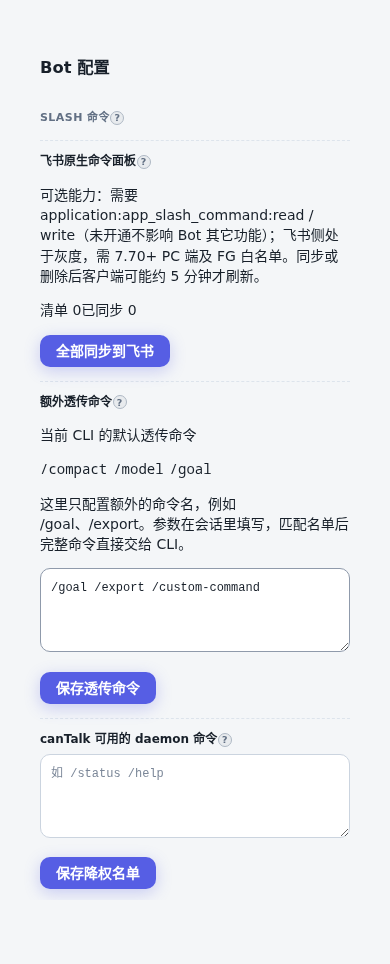
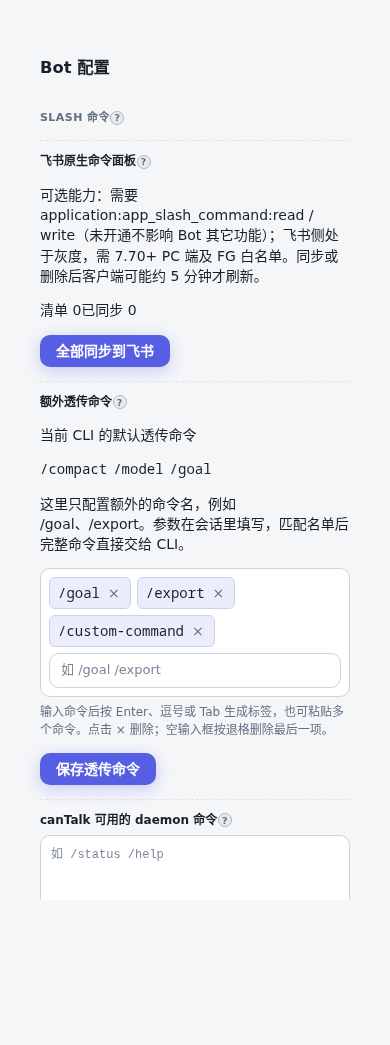
feat(commands): 使用标签输入配置 CLI 透传命令

Changed region(s): [[0.0923, 0.0311, 0.8923, 0.8402], [0.0923, 0.8714, 0.4, 0.9336], [0.7077, 0.4979, 0.8923, 0.5602]]

diff --git a/src/dashboard/web/bot-defaults-page.tsx b/src/dashboard/web/bot-defaults-page.tsx
@@ -1,4 +1,5 @@
 import type { OncallPresetOptions } from '../../services/oncall-preset-options.js';
+import { normalizePassthroughCommand, parseCustomPassthroughInput } from '../../core/passthrough-commands.js';
 import type { OncallGroupBusinessTarget } from '../../services/oncall-group-client.js';
 import type { OncallGroupPolicy } from '../../services/oncall-group-policy.js';
 import { SessionGroupNamingRow } from './session-group-naming-row.js';
@@ -9390,12 +9391,18 @@ export function NativeSlashCommandRegistration(props: { bot: BotDefaultsRow }) {
 export function SlashCommandPermissionsSection(props: { bot: BotDefaultsRow; patchBot: PatchBot }) {
   const tr = useT();
   const [passthrough, setPassthrough] = useState(typeof props.bot.customPassthroughCommands === 'string' ? props.bot.customPassthroughCommands : '');
+  const [commandDraft, setCommandDraft] = useState('');
+  const [commandError, setCommandError] = useState('');
+  const commandHelpId = useId();
+  const commandTags = parseCustomPassthroughInput(passthrough);
   const [canTalk, setCanTalk] = useState(typeof props.bot.canTalkDaemonCommands === 'string' ? props.bot.canTalkDaemonCommands : '');
   const [status, setStatus] = useState<StatusMessage>(null);
   const [busy, setBusy] = useState<string | null>(null);
 
   useEffect(() => {
     setPassthrough(typeof props.bot.customPassthroughCommands === 'string' ? props.bot.customPassthroughCommands : '');
+    setCommandDraft('');
+    setCommandError('');
   }, [props.bot.customPassthroughCommands]);
   // 分开两个 effect：只让「被保存的那个字段」的 prop 变化重置对应输入框，否则保存
   // 一个字段触发 patchBot 重渲染会连带把另一个字段的未保存草稿一并清空。
@@ -9403,9 +9410,26 @@ export function SlashCommandPermissionsSection(props: { bot: BotDefaultsRow; pat
     setCanTalk(typeof props.bot.canTalkDaemonCommands === 'string' ? props.bot.canTalkDaemonCommands : '');
   }, [props.bot.canTalkDaemonCommands]);
 
+  function commitCommandDraft(text = commandDraft): string | null {
+    if (!text.trim()) return passthrough;
+    const entries = text.trim().split(/[,;\r\n]+|\s+(?=\/)/).map(entry => entry.trim()).filter(Boolean);
+    const normalized = entries.map(entry => normalizePassthroughCommand(entry.startsWith('/') ? entry : `/${entry}`));
+    if (!entries.length || normalized.some(command => !command)) {
+      setCommandError(tr('botDefaults.commandTagInvalid'));
+      return null;
+    }
+    const next = [...new Set([...commandTags, ...normalized as string[]])].join(' ');
+    setPassthrough(next);
+    setCommandDraft('');
+    setCommandError('');
+    return next;
+  }
+
   async function savePassthrough(): Promise<void> {
+    const commands = commitCommandDraft();
+    if (commands === null) return;
     await saveBotField({
-      request: () => sendJson('PUT', `/api/bots/${encodeURIComponent(props.bot.larkAppId)}/custom-passthrough`, { customPassthroughCommands: passthrough }),
+      request: () => sendJson('PUT', `/api/bots/${encodeURIComponent(props.bot.larkAppId)}/custom-passthrough`, { customPassthroughCommands: commands }),
       setStatus,
       setBusy: on => setBusy(on ? 'passthrough' : null),
       saved: tr('botDefaults.cardPrefSaved'),
@@ -9446,14 +9470,43 @@ export function SlashCommandPermissionsSection(props: { bot: BotDefaultsRow; pat
           </div>
         ) : null}
         <p>{tr('botDefaults.customPassthroughInputHelp')}</p>
-        <textarea
-          data-input="customPassthroughCommands"
-          rows={2}
-          placeholder={tr('botDefaults.customPassthroughPlaceholder')}
-          value={passthrough}
-          disabled={busy === 'passthrough'}
-          onChange={event => setPassthrough(event.currentTarget.value)}
-        />
+        <div className={`bd-command-tags${busy === 'passthrough' ? ' is-disabled' : ''}`}>
+          {commandTags.map(command => (
+            <span className="bd-command-tag" key={command} data-command-tag={command}>
+              <code>{command}</code>
+              <button type="button" disabled={busy === 'passthrough'} data-remove-command={command}
+                aria-label={tr('botDefaults.commandTagRemove', { command })}
+                onClick={() => setPassthrough(commandTags.filter(value => value !== command).join(' '))}>×</button>
+            </span>
+          ))}
+          <input data-input="customPassthroughCommands" type="text" value={commandDraft}
+            aria-label={tr('botDefaults.customPassthrough')} aria-describedby={commandHelpId} aria-invalid={!!commandError}
+            placeholder={tr('botDefaults.customPassthroughPlaceholder')} disabled={busy === 'passthrough'}
+            onChange={event => { setCommandDraft(event.currentTarget.value); setCommandError(''); }}
+            onBlur={() => { if (busy !== 'passthrough') commitCommandDraft(); }}
+            onKeyDown={event => {
+              if (event.nativeEvent.isComposing) return;
+              if (event.key === 'Enter' || event.key === ',' || event.key === ';') {
+                event.preventDefault(); commitCommandDraft();
+              } else if (event.key === 'Tab' && commandDraft.trim()) {
+                commitCommandDraft();
+              } else if (event.key === 'Backspace' && !commandDraft && commandTags.length) {
+                event.preventDefault(); setPassthrough(commandTags.slice(0, -1).join(' '));
+              }
+            }}
+            onPaste={event => {
+              const text = event.clipboardData.getData('text');
+              if (/[,;\r\n]|\s+\//.test(text)) {
+                event.preventDefault();
+                const start = event.currentTarget.selectionStart ?? commandDraft.length;
+                const end = event.currentTarget.selectionEnd ?? start;
+                const next = commandDraft.slice(0, start) + text + commandDraft.slice(end);
+                if (commitCommandDraft(next) === null) setCommandDraft(next);
+              }
+            }} />
+        </div>
+        <p className="bd-section-note" id={commandHelpId}>{tr('botDefaults.commandTagHelp')}</p>
+        {commandError ? <p role="alert" className="bd-command-error">{commandError}</p> : null}
         <div className="actions">
           <button type="button" className="primary" data-action="save-custom-passthrough" disabled={busy === 'passthrough'} onClick={() => void savePassthrough()}>{tr('botDefaults.customPassthroughSave')}</button>
         </div>

diff --git a/test/dashboard-cli-command-settings.test.ts b/test/dashboard-cli-command-settings.test.ts
@@ -25,12 +25,92 @@ describe('Dashboard CLI command-name configuration', () => {
     const defaults = renderer.root.findByProps({ 'data-default-passthrough-commands': '' });
     expect(defaults.findAllByType('code').map(node => node.children.join(''))).toEqual(['/model', '/goal']);
     await act(async () => renderer.root.findByProps({ 'data-input': 'customPassthroughCommands' }).props.onChange({ currentTarget: { value: '/export /goal' } }));
+    await act(async () => renderer.root.findByProps({ 'data-input': 'customPassthroughCommands' }).props.onKeyDown({ key: 'Enter', nativeEvent: { isComposing: false }, preventDefault() {} }));
     await act(async () => { await renderer.root.findByProps({ 'data-action': 'save-custom-passthrough' }).props.onClick(); });
     expect(fetchMock).toHaveBeenCalledWith('/api/bots/app1/custom-passthrough', expect.objectContaining({
       method: 'PUT', body: JSON.stringify({ customPassthroughCommands: '/export /goal' }),
     }));
     expect(patchBot).toHaveBeenCalledWith('app1', { customPassthroughCommands: '/export /goal' });
-    expect(renderer.root.findByProps({ 'data-input': 'customPassthroughCommands' }).props.value).toBe('/export /goal');
+    expect(renderer.root.findAll(node => typeof node.props['data-command-tag'] === 'string').map(node => node.props['data-command-tag']))
+      .toEqual(['/export', '/goal']);
+    expect(renderer.root.findByProps({ 'data-input': 'customPassthroughCommands' }).props.value).toBe('');
     await act(async () => renderer.unmount());
+  });
+});
+
+async function tagEditor(initial = '') {
+  const fetchMock = vi.fn(async (_url: string, init?: RequestInit) => ({
+    ok: true, status: 200,
+    json: async () => init?.method === 'PUT'
+      ? { ok: true, ...JSON.parse(String(init.body)) }
+      : { ok: true, commands: [], summary: { total: 0, synced: 0, missing: 0, outdated: 0, remoteExtra: 0 } },
+  }));
+  vi.stubGlobal('fetch', fetchMock);
+  let renderer!: TestRenderer.ReactTestRenderer;
+  await act(async () => { renderer = TestRenderer.create(React.createElement(SlashCommandPermissionsSection, {
+    bot: { larkAppId: 'app1', cliId: 'traex', customPassthroughCommands: initial }, patchBot: vi.fn(),
+  })); });
+  const input = () => renderer.root.findByProps({ 'data-input': 'customPassthroughCommands' });
+  const tags = () => renderer.root.findAll(node => typeof node.props['data-command-tag'] === 'string').map(node => node.props['data-command-tag']);
+  const type = async (value: string) => { await act(async () => input().props.onChange({ currentTarget: { value } })); };
+  const key = async (value: string, composing = false) => { await act(async () => input().props.onKeyDown({ key: value, nativeEvent: { isComposing: composing }, preventDefault() {} })); };
+  const save = async () => { await act(async () => { await renderer.root.findByProps({ 'data-action': 'save-custom-passthrough' }).props.onClick(); }); };
+  const close = async () => { await act(async () => renderer.unmount()); };
+  return { renderer, input, tags, type, key, save, close, fetchMock };
+}
+
+describe('command tag input', () => {
+  it('commits individual commands, normalizes and deduplicates them', async () => {
+    const editor = await tagEditor();
+    await editor.type('GOAL'); await editor.key('Enter');
+    await editor.type('/export'); await editor.key(',');
+    await editor.type('/GOAL'); await editor.key('Tab');
+    expect(editor.tags()).toEqual(['/goal', '/export']);
+    expect(editor.input().props.value).toBe('');
+    await editor.close();
+  });
+  it('removes a tag using its button and the last tag using Backspace', async () => {
+    const editor = await tagEditor('/goal /export');
+    await act(async () => editor.renderer.root.findByProps({ 'data-remove-command': '/goal' }).props.onClick());
+    expect(editor.tags()).toEqual(['/export']);
+    await editor.key('Backspace');
+    expect(editor.tags()).toEqual([]);
+    await editor.save();
+    expect(editor.fetchMock).toHaveBeenLastCalledWith('/api/bots/app1/custom-passthrough', expect.objectContaining({ body: JSON.stringify({ customPassthroughCommands: '' }) }));
+    await editor.close();
+  });
+  it('pastes multiple commands while respecting the selected draft text', async () => {
+    const editor = await tagEditor('/goal');
+    await editor.type('/old');
+    await act(async () => editor.input().props.onPaste({
+      clipboardData: { getData: () => '/export, /review\n/custom-command' },
+      currentTarget: { selectionStart: 0, selectionEnd: 4 }, preventDefault() {},
+    }));
+    expect(editor.tags()).toEqual(['/goal', '/export', '/review', '/custom-command']);
+    await editor.close();
+  });
+  it('includes an unfinished valid command when Save is clicked', async () => {
+    const editor = await tagEditor('/goal');
+    await editor.type('/export'); await editor.save();
+    expect(editor.fetchMock).toHaveBeenLastCalledWith('/api/bots/app1/custom-passthrough', expect.objectContaining({ body: JSON.stringify({ customPassthroughCommands: '/goal /export' }) }));
+    expect(editor.tags()).toEqual(['/goal', '/export']);
+    await editor.close();
+  });
+  it('keeps invalid drafts visible and prevents saving a daemon command', async () => {
+    const editor = await tagEditor('/goal');
+    await editor.type('/status'); await editor.key('Enter'); await editor.save();
+    expect(editor.tags()).toEqual(['/goal']);
+    expect(editor.input().props.value).toBe('/status');
+    expect(editor.input().props['aria-invalid']).toBe(true);
+    expect(editor.fetchMock.mock.calls.filter(call => call[1]?.method === 'PUT')).toHaveLength(0);
+    await editor.close();
+  });
+  it('does not commit an Enter used during IME composition, and commits on blur', async () => {
+    const editor = await tagEditor();
+    await editor.type('/goal'); await editor.key('Enter', true);
+    expect(editor.tags()).toEqual([]);
+    await act(async () => editor.input().props.onBlur());
+    expect(editor.tags()).toEqual(['/goal']);
+    await editor.close();
   });
 });

diff --git a/src/dashboard/web/i18n.ts b/src/dashboard/web/i18n.ts
@@ -5,6 +5,9 @@ type DashboardMessages = Record<string, string>;
 export const DASHBOARD_LOCALE_STORAGE_KEY = 'botmux.dashboard.locale';
 
 const zh = {
+  'botDefaults.commandTagHelp': '输入命令后按 Enter、逗号或 Tab 生成标签，也可粘贴多个命令。点击 × 删除；空输入框按退格删除最后一项。',
+  'botDefaults.commandTagInvalid': '请输入有效的 CLI 命令名；不能与 botmux 自身命令冲突。',
+  'botDefaults.commandTagRemove': '移除命令 {command}',
   'botDefaults.defaultPassthrough': '当前 CLI 的默认透传命令',
   'botDefaults.customPassthroughInputHelp': '这里只配置额外的命令名，例如 /goal、/export。参数在会话里填写，匹配名单后完整命令直接交给 CLI。',
   'feedback.storage.tokenSource': 'Token 来源',
@@ -4792,6 +4795,9 @@ const zh = {
 } satisfies DashboardMessages;
 
 const en: Record<keyof typeof zh, string> = {
+  'botDefaults.commandTagHelp': 'Press Enter, comma, or Tab to create a tag, or paste multiple commands. Use × to remove a tag; Backspace in an empty input removes the last tag.',
+  'botDefaults.commandTagInvalid': 'Enter a valid CLI command name that does not conflict with a botmux command.',
+  'botDefaults.commandTagRemove': 'Remove command {command}',
   'botDefaults.defaultPassthrough': 'Default passthrough commands for the current CLI',
   'botDefaults.customPassthroughInputHelp': 'Configure extra command names here, such as /goal and /export. Enter arguments in the conversation; matching commands are delivered directly to the CLI.',
   'feedback.storage.tokenSource': 'Token source',

diff --git a/src/dashboard/web/style.css b/src/dashboard/web/style.css
@@ -35834,3 +35834,13 @@ button.dboard-add-image { min-height: 28px; padding: 0 10px; font-size: var(--fs
 .bd-oncall-preset > strong { font-size: 12px; font-weight: 600; }
 .bd-oncall-preset .bd-oncall-grid { margin-top: 12px; gap: 12px; }
 .bd-oncall-preset > .bd-section-note { display: block; margin-top: 12px; }
+
+.bd-command-tags { display: flex; flex-wrap: wrap; align-items: center; gap: 6px; padding: 8px; border: 1px solid var(--border); border-radius: var(--radius-md, 8px); background: var(--surface); }
+.bd-command-tags:focus-within { border-color: var(--accent); box-shadow: 0 0 0 2px var(--accent-soft, transparent); }
+.bd-command-tag { display: inline-flex; align-items: center; gap: 6px; max-width: 100%; padding: 3px 8px; border-radius: 6px; background: var(--accent-soft, var(--bg)); border: 1px solid var(--border); }
+.bd-command-tag code { padding: 0; background: transparent; overflow-wrap: anywhere; }
+.bd-command-tag button { margin: 0; padding: 0 2px; min-height: 24px; border: 0; box-shadow: none; background: transparent; color: var(--muted); line-height: 1; }
+.bd-command-tags input { flex: 1 1 140px; min-width: 0; width: auto; margin: 0; padding: 6px; border: 0; box-shadow: none; background: transparent; }
+.bd-command-tags input:focus { border: 0; box-shadow: none; }
+.bd-command-tags.is-disabled { opacity: .65; }
+.bd-command-error { color: var(--danger); }
